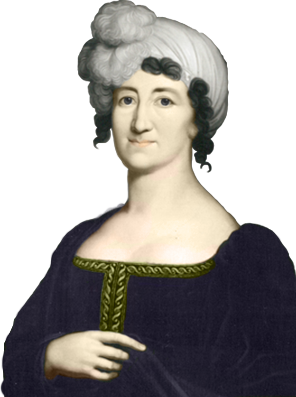
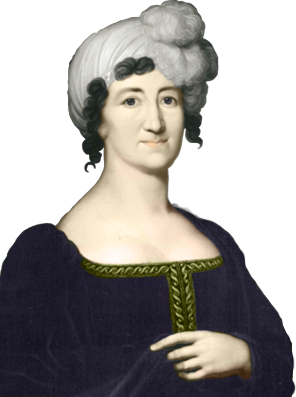
Pictures

diff --git a/Salongeschichten/index.html b/Salongeschichten/index.html
@@ -5,7 +5,12 @@
 <head prefix="og: http://ogp.me/ns#">
 
 	<title></title> <!--Up to 60-70 Characters. Optimal Format: Primary Keyword - Secondary Keyword | Brand Name-->
-
+	<link href="https://fonts.googleapis.com/css?family=IM+Fell+English:400,400i" rel="stylesheet">
+	<style>
+		body {
+			font-family: 'IM Fell English', serif;
+			}
+	</style>
 	<meta charset="UTF-8">
 	<meta name="viewport" content="width=device-width, initial-scale=1, user-scalable=no, maximum-scale=1">
 	<meta name="description" content=""> <!--Page description. No longer than 155 characters.-->
@@ -161,9 +166,13 @@
 			</div>
 		</div>
 
-		<div data-ui="choices" class="vertical align-center middle"></div>
-		<div data-ui="text">
+		<div data-ui="gesicht" class="vertical align-center middle">
 			<img data-ui="face" alt="">
+		</div>
+
+		<div data-ui="choices" class="vertical align-center middle"></div>
+
+		<div data-ui="text">
 			<span data-ui="who"></span>
 			<p data-ui="say"></p>
 		</div>

diff --git a/Salongeschichten/style/monogatari.css b/Salongeschichten/style/monogatari.css
@@ -124,7 +124,7 @@ select {
 
 #game img {
 	position: absolute;
-	max-height: 90%;
+	max-height: 100%;
         
 }
 
@@ -297,6 +297,19 @@ textarea {
         margin-right: auto;
 }
 
+[data-ui="choicesr"] {
+	display: block;
+        float:right;
+	z-index: 11;
+	max-height: 100vh;
+	overflow-y: auto;
+	height: auto;
+	width: 100vw;
+	margin: -130px;
+        margin-left: auto;
+        margin-right: auto;
+}
+
 [data-ui="choices"] button {
 	margin: 0.5em;
 	padding: 0.5em;
@@ -306,14 +319,26 @@ textarea {
 	color: rgb(255, 255, 255);
 }
 
+
+[data-ui="gesicht"] {
+	display: block;
+	z-index: 11;
+	max-height: 100vh;
+	overflow-y: auto;
+	height: auto;
+	width: 100vw;
+	margin: -100px;
+        margin-left: auto;
+        margin-right: auto;
+}
+
 [data-ui="face"] {
 	display: inline-block;
-	float: left;
+        float:left;
         bottom: 300px;
 	max-height: 20% !important;
 	position: initial !important;
 }
-
 
 
 [data-ui="text"] {
